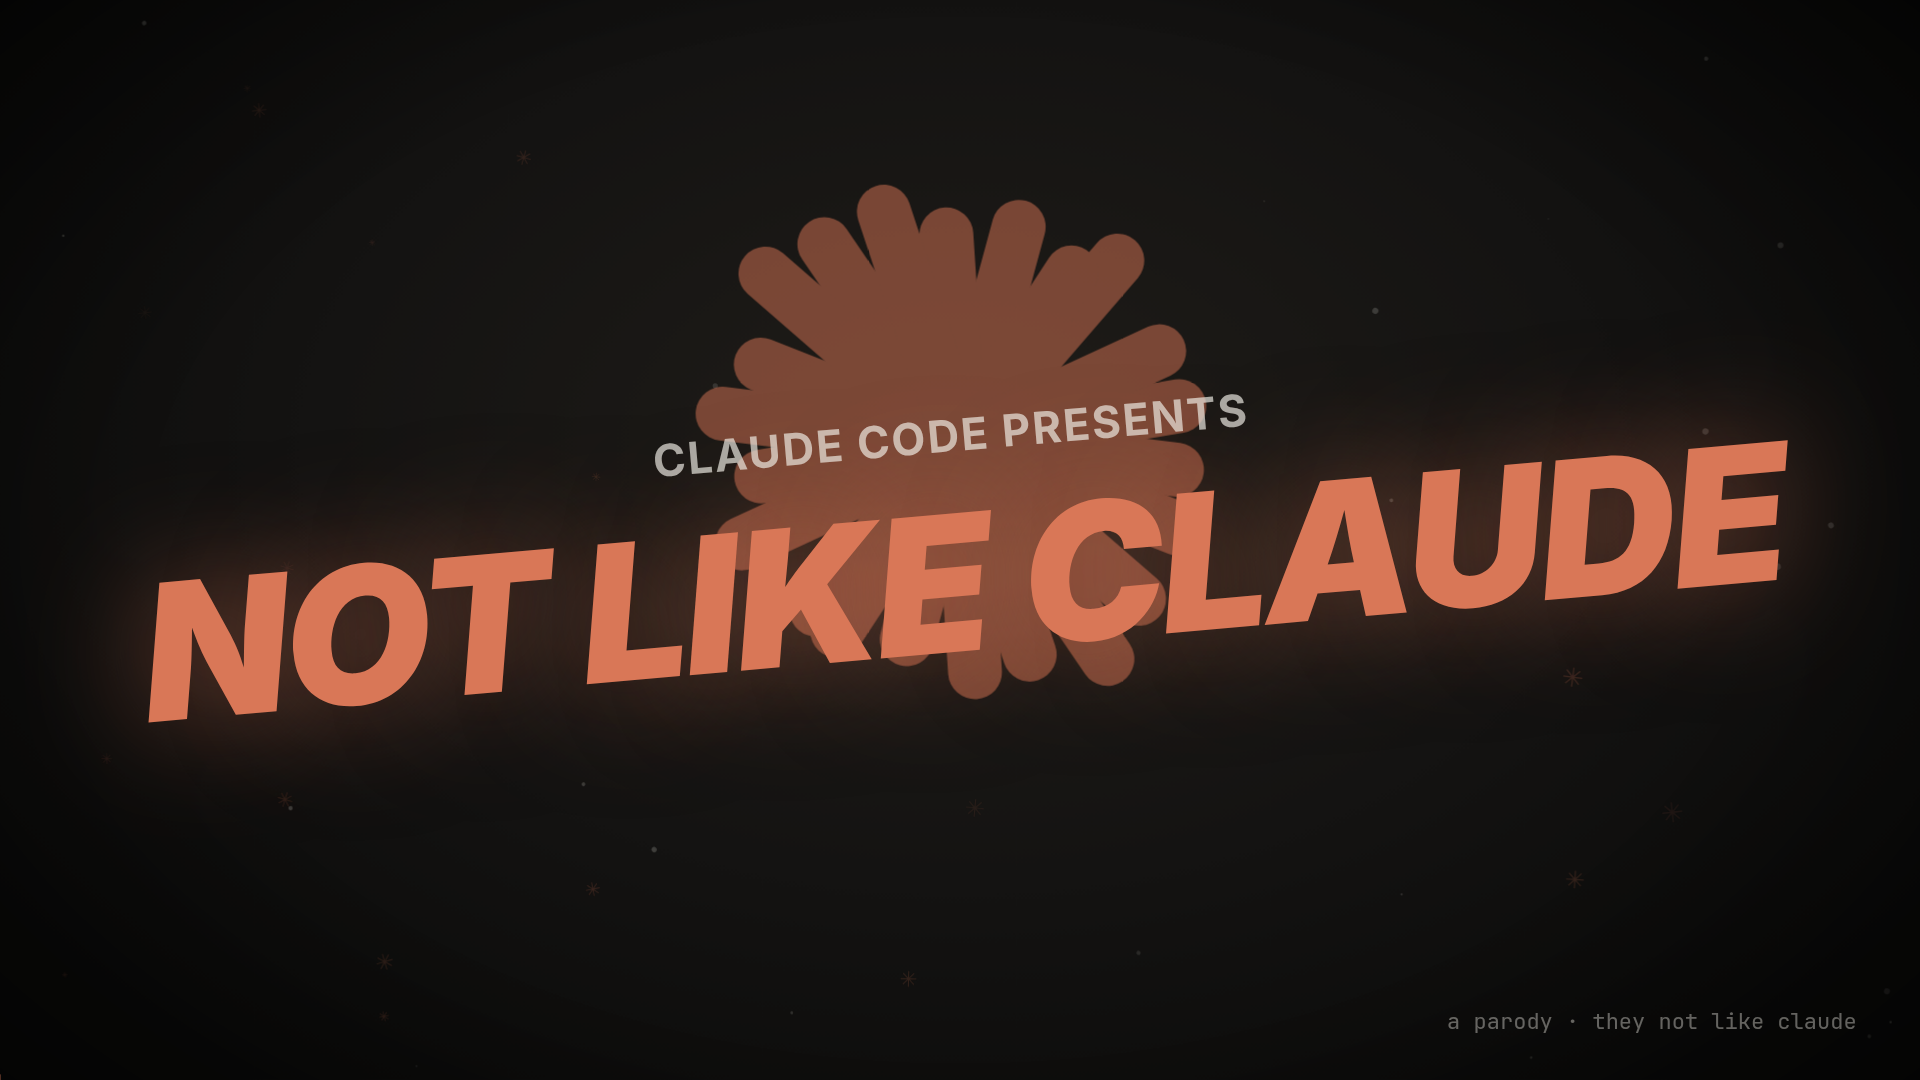
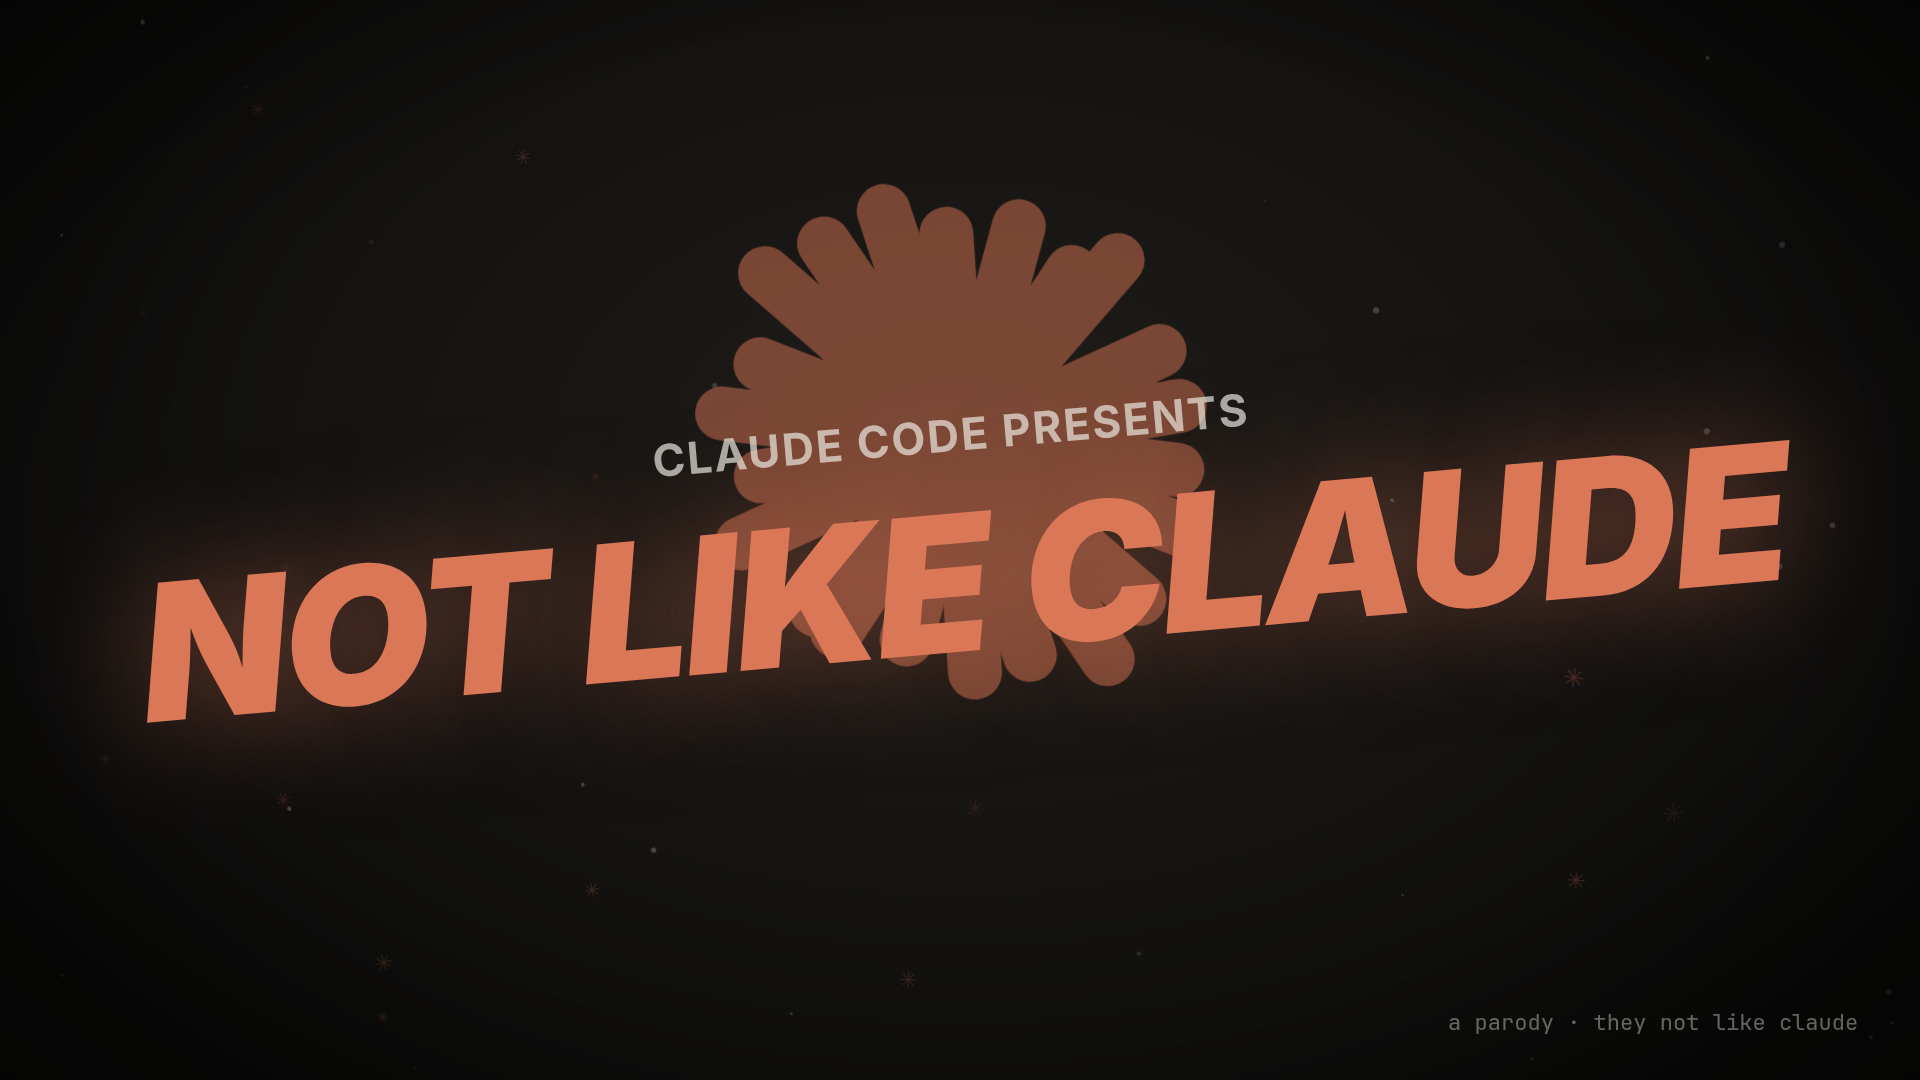
Word-accurate karaoke, color grade pass, grade_mux script
Per-word vocal durations measured from individual synthesis drive the
karaoke highlight (wf/vdur written back into timing.json); renderer
falls back to uniform spread when absent. Punctuation-only tokens no
longer count as words. grade_mux.sh applies warm-shadow curves,
vignette, grain, and sharpening while muxing the mix.

Claude-Session: https://claude.ai/code/session_011HD2D1khP4pHenEuswZYnG

Changed region(s): [[0.9375, 0.9472, 0.9688, 0.9778], [0.5938, 0.3667, 0.625, 0.3972], [0.375, 0.3972, 0.4062, 0.4278]]

diff --git a/src/video_template.html b/src/video_template.html
@@ -258,7 +258,8 @@ function lyricSpans(e){
   if(lyricCache[e.i]) return lyricCache[e.i];
   const words = e.text.split(' ').map(w=>{
     const ad = /^\(.*\)[,.!?…]*$/.test(w);
-    return {w, ad};
+    const punct = !/[A-Za-z0-9]/.test(w);
+    return {w, ad, punct};
   });
   return lyricCache[e.i]=words;
 }
@@ -404,13 +405,22 @@ function renderLyric(t,e,inHook){
   if(!e || inHook){ L.style.opacity=0; N.style.opacity=0; return; }
   const words = lyricSpans(e);
   const dur = Math.max(e.end-e.start, 0.1);
-  const prog = clamp((t-e.start)/(dur*0.92),0,1);
-  const total = words.filter(w=>!w.ad).length;
-  const done = prog*total;
+  // progress runs over the ACTUAL vocal take length when known (word-sync), else the slot
+  const vdur = e.vdur ? Math.max(e.vdur, 0.1) : dur*0.92;
+  const prog = clamp((t-e.start)/vdur,0,1);
+  const total = words.filter(w=>!w.ad && !w.punct).length;
   let html='', wi=0;
-  for(const {w,ad} of words){
+  for(const {w,ad,punct} of words){
     if(ad){ html+=`<span class="w ad">${escapeHtml(w)}</span>`; continue; }
-    const cls = wi<Math.floor(done)?'done': wi<done?'cur':'todo';
+    if(punct){ html+=`<span class="w todo">${escapeHtml(w)}</span>`; continue; }
+    let cls;
+    if(e.wf && e.wf.length===total){
+      const endF = e.wf[wi], startF = wi>0?e.wf[wi-1]:0;
+      cls = prog>=endF?'done': prog>=startF?'cur':'todo';
+    } else {
+      const done = prog*total;
+      cls = wi<Math.floor(done)?'done': wi<done?'cur':'todo';
+    }
     const curScale = cls==='cur'? 1.08:1;
     html+=`<span class="w ${cls}" style="transform:scale(${curScale})">${escapeHtml(w)}</span>`;
     wi++;

diff --git a/src/make_vocals.py b/src/make_vocals.py
@@ -173,6 +173,20 @@ def main() -> None:
     scale = scale_freqs_for(root)
     print(f"autotune root {root:.1f} Hz, scale: {[round(f) for f in scale]}")
 
+    import re as _re
+
+    def countable_words(text: str) -> list:
+        """Same tokenization the video's karaoke uses: split on spaces, skip
+        adlibs '(...)' and punctuation-only tokens."""
+        out = []
+        for w in text.split(" "):
+            if _re.match(r"^\(.*\)[,.!?…]*$", w):
+                continue
+            if not _re.search(r"[A-Za-z0-9]", w):
+                continue
+            out.append(w)
+        return out
+
     for ev in timing["events"]:
         wpm, pitch, amp, gain = VOICES[ev["style"]]
         text = speakable(ev["tts"])
@@ -180,11 +194,28 @@ def main() -> None:
             continue
         y = trim_silence(espeak_line(text, wpm, pitch, amp))
         slot = (ev["end"] - ev["start"]) * 0.96
+        pre_len = len(y)
         y = tempo_fit(y, slot)
         y = autotune(y, scale)
         start = int(ev["start"] * SR)
         end = min(start + len(y), total)
         track[start:end] += y[: end - start] * gain
+
+        # word-level karaoke timing: synthesize each display word alone and use its
+        # trimmed length as its share of the line. "Transcription" with zero guessing.
+        words = countable_words(ev["text"])
+        if words and pre_len:
+            lens = []
+            for w in words:
+                clean = speakable(_re.sub(r"^[^\w]+|[^\w]+$", "", w) or w)
+                wy = trim_silence(espeak_line(clean, wpm, pitch, amp))
+                lens.append(max(len(wy), 1))
+            cum = np.cumsum(lens) / sum(lens)
+            ev["wf"] = [round(float(f), 4) for f in cum]
+        ev["vdur"] = round(len(y) / SR, 3)
+
+    # write word fractions + true vocal durations back for the renderer
+    (ROOT / "timing.json").write_text(json.dumps(timing, indent=1))
 
     peak = np.abs(track).max()
     if peak > 0:

diff --git a/README.md b/README.md
@@ -34,9 +34,12 @@ python3 src/make_timing.py
 python3 src/make_vocals.py
 python3 src/build_page.py
 node src/render_frames.js                     # ~15 min
-ffmpeg -i build/video_noaudio.mp4 -i build/mix.wav \
-       -c:v copy -c:a aac -b:a 192k -shortest build/not-like-claude.mp4
+bash src/grade_mux.sh                         # color grade + mux
 ```
+
+Note: `make_vocals.py` must run before `build_page.py` — it writes word-level
+karaoke timings (`wf`/`vdur`, measured from per-word synthesis) back into
+`timing.json`, which the page inlines.
 
 Preview individual timestamps without a full render:
 
